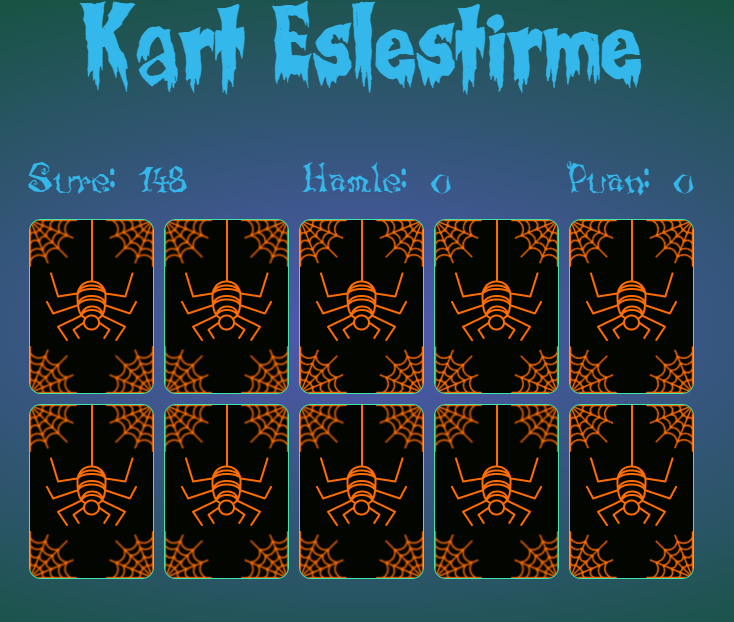
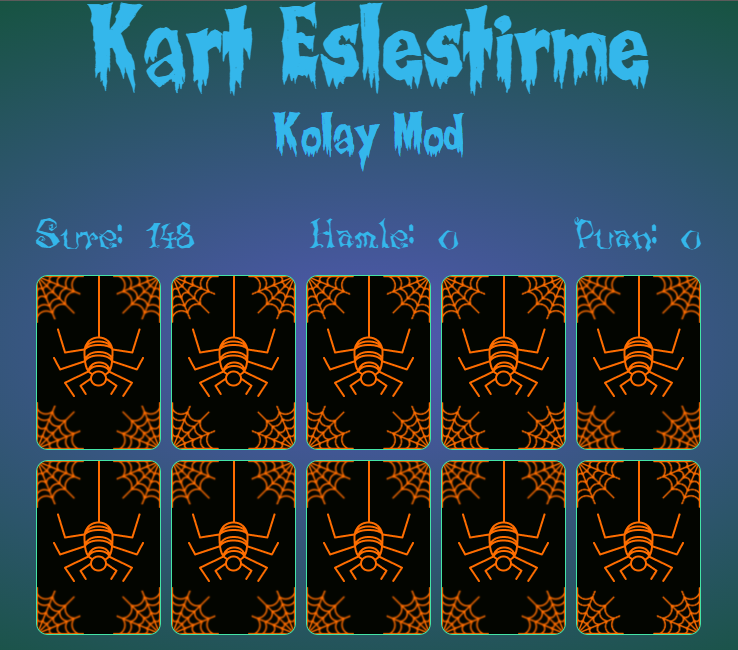
Game images updated

diff --git a/easy.html b/easy.html
@@ -9,6 +9,7 @@
 </head>
 <body>
     <a class="page-title" href="main.html">Kart Eslestirme</a>
+    <span class="page-mod">Kolay Mod</span>
   <div class="overlay-text visible">
    Baslamak icin Tikla
    <span class="overlay-text-small">Nasil Oynanir: Bir kart sec ve onu eslestirmeye calis</span>

diff --git a/hard.html b/hard.html
@@ -10,6 +10,7 @@
 </head>
 <body>
     <a class="page-title" href="main.html">Kart Eslestirme</a>
+    <span class="page-mod">Zor Mod</span>
   <div class="overlay-text visible">
    Baslamak icin Tikla
    <span class="overlay-text-small">Nasil Oynanir: Bir kart sec ve onu eslestirmeye calis</span>

diff --git a/medium.html b/medium.html
@@ -10,6 +10,7 @@
 </head>
 <body>
   <a class="page-title" href="main.html">Kart Eslestirme</a>
+  <span class="page-mod">Normal Mod</span>
   <div class="overlay-text visible">
    Baslamak icin Tikla
    <span class="overlay-text-small">Nasil Oynanir: Bir kart sec ve onu eslestirmeye calis</span>

diff --git a/styles.css b/styles.css
@@ -35,6 +35,16 @@ body {
   display:block;
 }
 
+.page-mod {
+  color: #34b7eb;
+  font-family: Creepy, serif;
+  font-weight: normal;
+  text-align: center;
+  font-size: 3em;
+  text-decoration: none;
+  display:block;
+}
+
 .game-info-container {
   grid-column: 1 / -1;
   display: flex;
